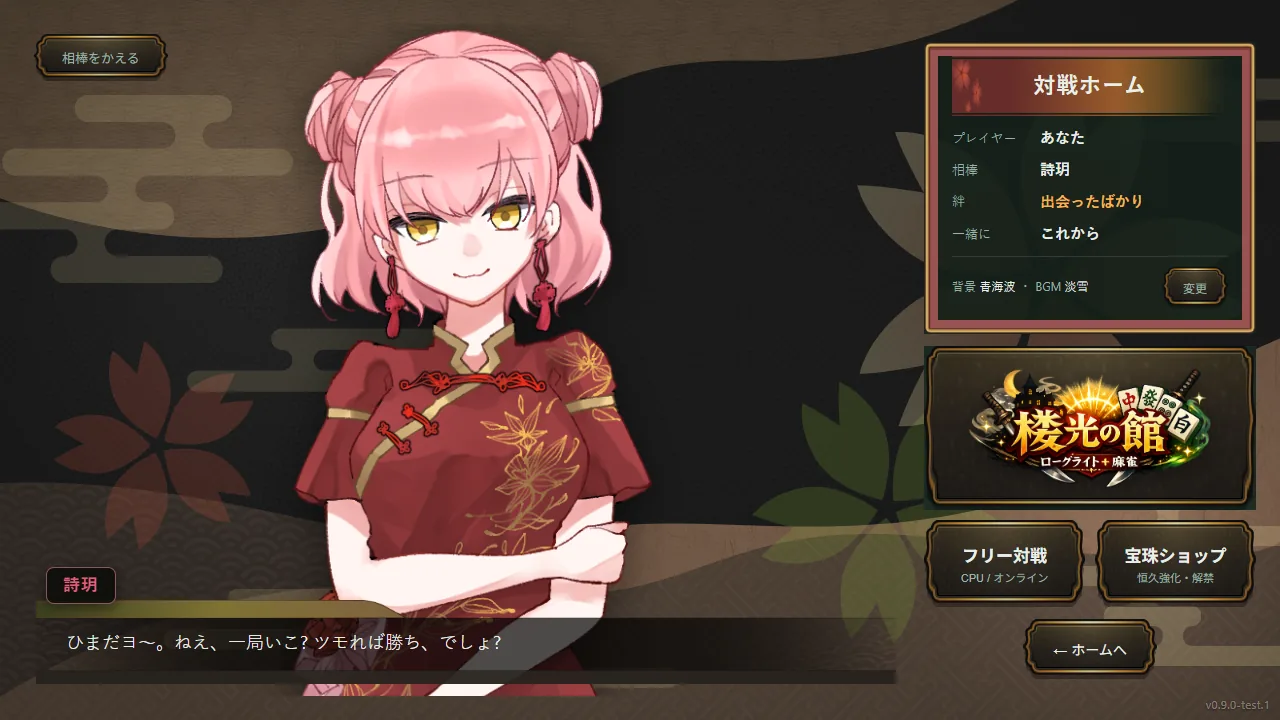
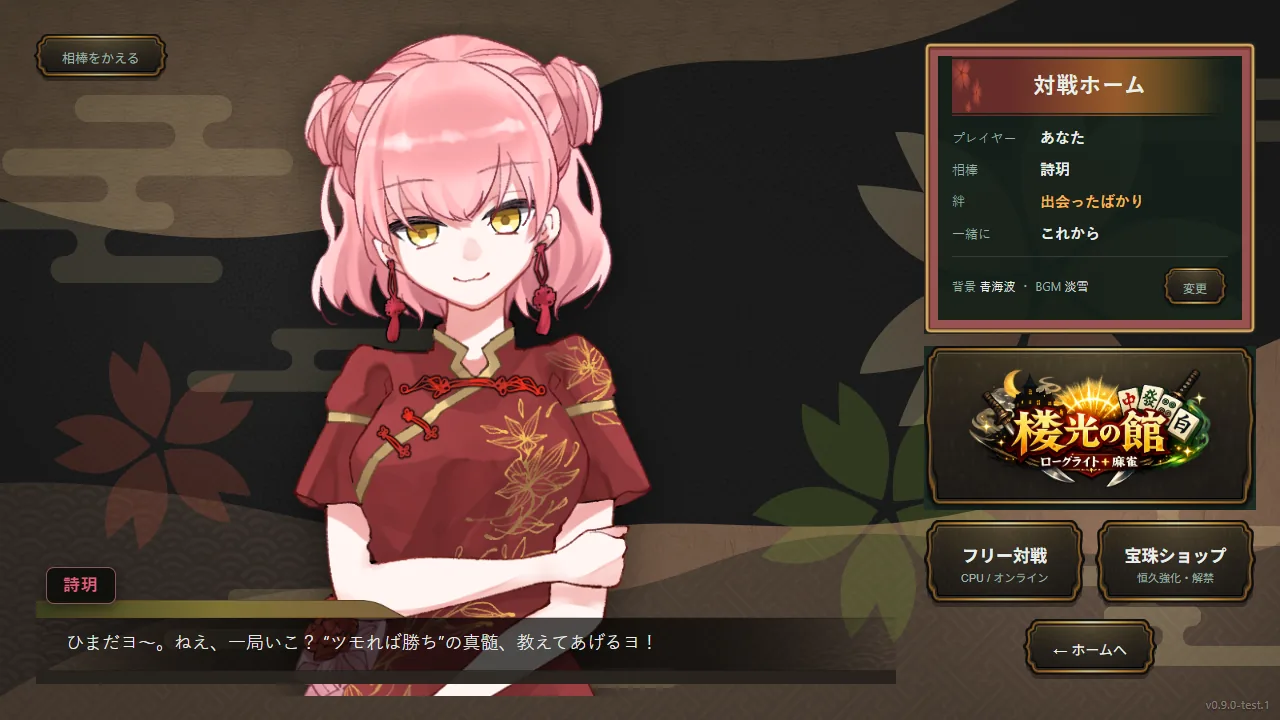
tweak(voice): 詩玥のセリフ2本をゲーム側マスタにも反映
募集ページで差し替えた2本を characterVoiceMaster.js へ。ページと本体で言うことが
食い違わないよう、特徴3に載せている対戦ホームの画像も撮り直した。

- damage/big : 「うわ！？そんなに持っていくノ！？　も～、だから守りは苦手なんだってばぁ！」
- homeChat   : 「ひまだヨ～。ねえ、一局いこ？ “ツモれば勝ち”の真髄、教えてあげるヨ！」

voiceLineMaster.js（scenario-forge の自動生成・編集禁止）にも同じ旧文言が残っているが、
EXPLICIT で shiyue: SHIYUE が丸ごと上書きするため、詩玥に関しては到達しない死んだ行。
生成元の scenario-forge/output/ が手元に無いこともあり、あえて触っていない。

実機で表示を確認済み。対戦ホームは1行、対局中の相棒ボードは2行に収まり、
1280x720 のステージからはみ出さない（fixed-stage-no-scroll の不変条件を維持）。
test/smoke.mjs パス。

diff --git a/src/data/characterVoiceMaster.js b/src/data/characterVoiceMaster.js
@@ -135,7 +135,7 @@ const SHIYUE = [
   L("damage", { dmgTier: "mid" }, "うぐっ……ちょっと効いたヨ、今の……。"),
   L("damage", { dmgTier: "mid" }, "むー、押し返されたネ。次のツモでチャラにするダヨ。"),
   // 被ダメージ・大
-  L("damage", { dmgTier: "big" }, "うわっ、そんなに持ってくヨ!? 守りは苦手なんだってばネ～。"),
+  L("damage", { dmgTier: "big" }, "うわ！？そんなに持っていくノ！？　も～、だから守りは苦手なんだってばぁ！"),
   L("damage", { dmgTier: "big" }, "いったぁ……“守ってりゃ”なんて言わないでヨ。我は、引いて勝つんダロ。"),
   // 被ダメージ・残りわずか（素が少し滲む）
   L("damage", { dmgTier: "pinch" }, "点棒、もうこれだけ……でも、ツモれば勝ちダヨ。一発、引くからネ。"),
@@ -299,7 +299,7 @@ const SHIYUE = [
   L("home", { companionBondMin: 5 }, "おかえりネ、相棒。……ふふ、待ってたヨ。我とキミなら、どこまでも行けるネ?"),
 
   // homeChat（雑談ストック・状況不問）: 息継ぎ。軽口の楽天。
-  L("homeChat", {}, "ひまだヨ～。ねえ、一局いこ? ツモれば勝ち、でしょ?"),
+  L("homeChat", {}, "ひまだヨ～。ねえ、一局いこ？ “ツモれば勝ち”の真髄、教えてあげるヨ！"),
   L("homeChat", {}, "我のツモ、今日もキレてるヨ。……ためしてみたくない?"),
   L("homeChat", {}, "卓の前に座ると、なんだか落ち着くんだよネ。……不思議?"),
   L("homeChat", {}, "ねえ、どの卓いく? 我はどこでもツモるからサ、おまかせダヨ♪"),
